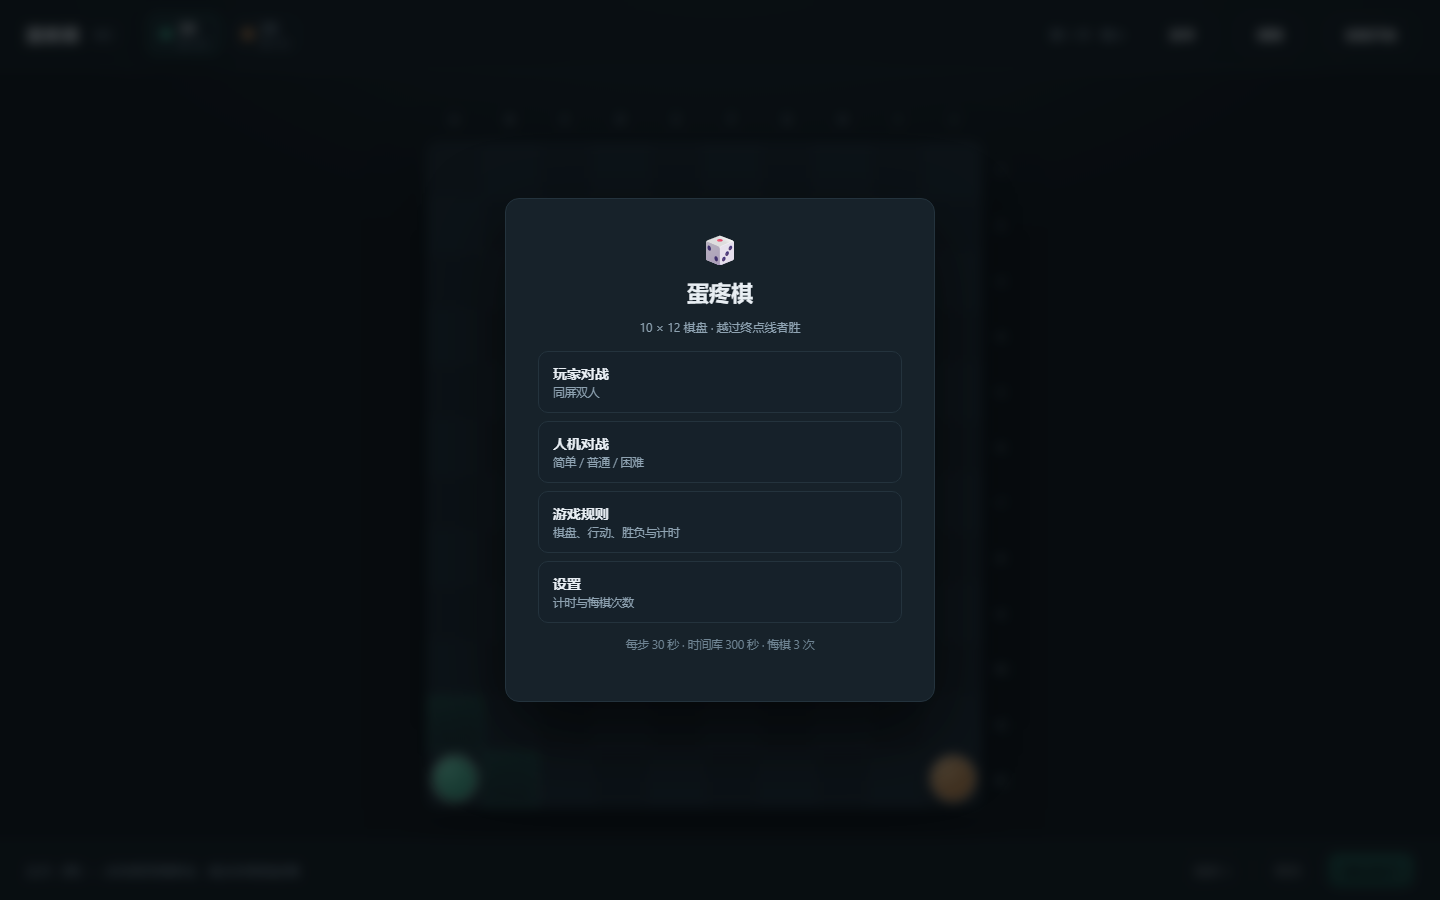
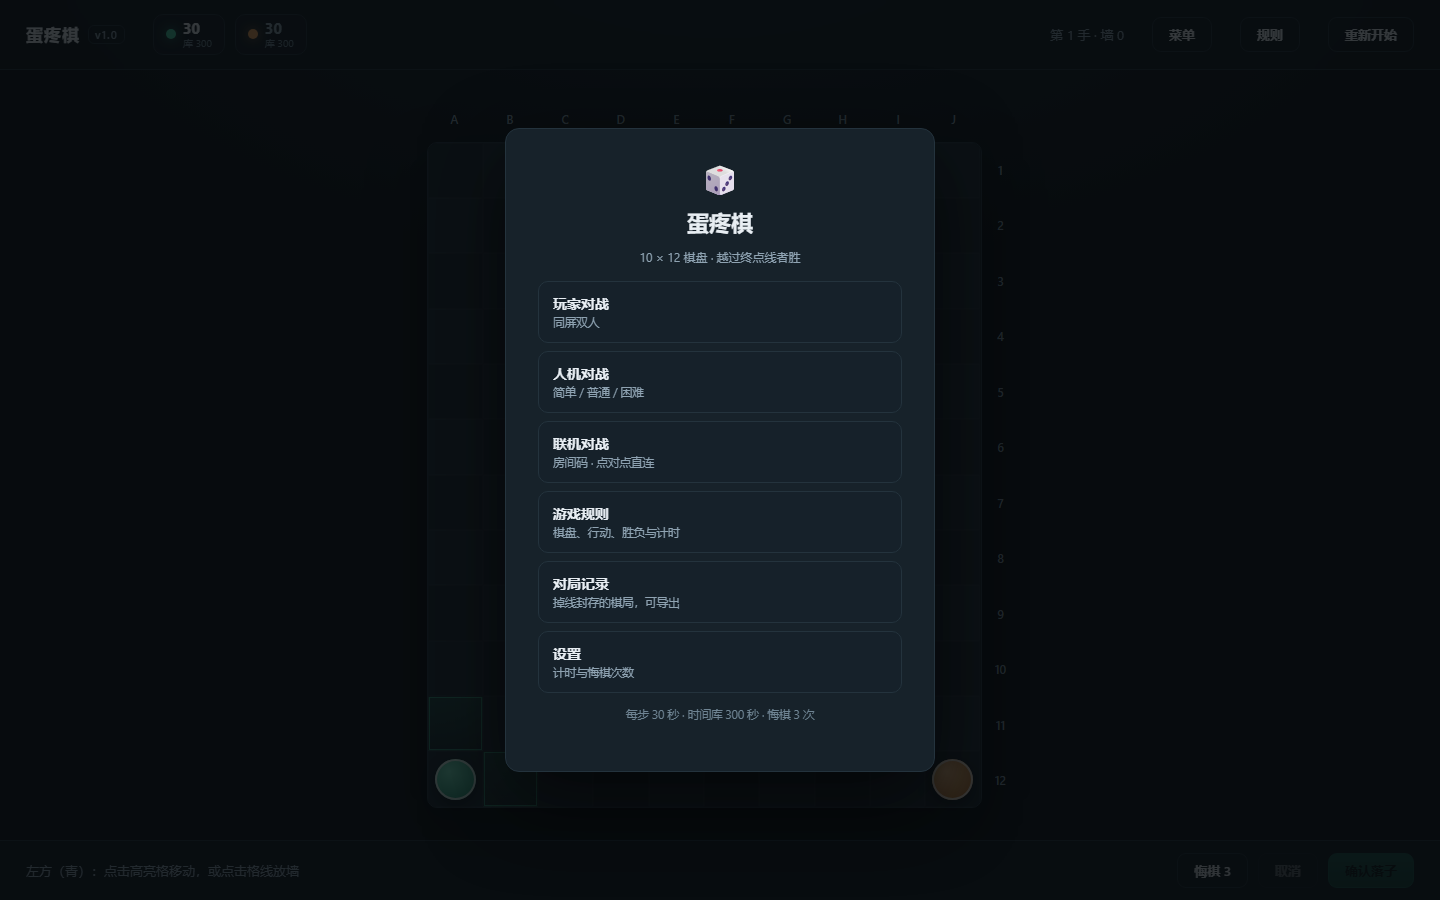
文档与仓库整理：README 重写、文档索引、截图更新
- README 重写：三种模式、联机用法、存档、目录、命令、测试数据、已知限制
- 新增 docs/文档说明.md：标注当前版/规划版/历史存档，避免看错版本
- 更新主菜单截图（含联机对战、对局记录）
- 界面版本号 M5 → v1.0

diff --git a/dist/蛋疼棋.html b/dist/蛋疼棋.html
@@ -852,7 +852,7 @@ body {
 <body>
   <div class="app">
     <header class="topbar">
-      <div class="brand">蛋疼棋<span class="ver">M5</span></div>
+      <div class="brand">蛋疼棋<span class="ver">v1.0</span></div>
       <div class="clocks">
         <div class="clock" id="clock0">
           <i class="dot dot-p0"></i>

diff --git a/index.html b/index.html
@@ -9,7 +9,7 @@
 <body>
   <div class="app">
     <header class="topbar">
-      <div class="brand">蛋疼棋<span class="ver">M5</span></div>
+      <div class="brand">蛋疼棋<span class="ver">v1.0</span></div>
       <div class="clocks">
         <div class="clock" id="clock0">
           <i class="dot dot-p0"></i>

diff --git a/README.md b/README.md
@@ -1,152 +1,117 @@
 # 蛋疼棋
 
-10 × 12 的两人棋：先越过终点线者胜。但若你到达时，对手下一手也能到达，就判平局——
-所以光跑没用，得靠封墙拉开差距。
-
-## 直接玩
-
-1. 打开 [`dist/蛋疼棋.html`](dist/蛋疼棋.html)，点右上角 **Download** 下载；
-2. 双击，用浏览器打开（无需安装、无需联网）；
-3. 主菜单选「玩家对战」或「人机对战」。
+10 × 12 的两人棋：先越过终点线者胜。但**如果你到达时，对手下一手也能到达，就判平局**——
+所以光跑没用，必须用墙把对手拖慢两步以上。这也是它“蛋疼”的地方。
 
 ![主菜单](docs/screenshots/home.png)
 
-## 怎么玩
+## 直接玩
+
+1. 下载 [`dist/蛋疼棋.html`](dist/蛋疼棋.html)（页面右上角 **Download**）；
+2. 双击，用任意现代浏览器打开——**无需安装、无需联网**；
+3. 单人可打人机，两个人可以同屏，联网可以开房间。
+
+> 单文件版是构建产物，源码改动后用 `node tools/build-single.mjs` 重新生成。
+
+## 玩法速览
 
 - 每回合二选一：**上下左右走一格**，或在格线上**封一面墙**；
 - 墙对双方都阻挡，但不能把任何一方完全封死；
 - 两枚棋子可以站在同一格；
-- 走到第 1 行、并从上方没有墙的列越出，即为到达；
-- 到达时对手也一步可到 → **平局**（这是核心平衡设计，不是 bug）；
-- 每步 30 秒，另有 300 秒时间库；超时由系统自动代走；
-- 每方 3 次悔棋，需对方同意。
+- 走到第 1 行、并从上方无墙的列越出，即为到达；
+- **到达时若对手也一步可到 → 平局**（核心平衡设计，不是 bug）；
+- 每步 30 秒，另有 300 秒时间库，超时由系统自动代走；
+- 每方 3 次悔棋（需对方同意），任何模式都可以认输。
 
-![掷骰选边](docs/screenshots/dice.png)
+## 三种模式
 
-## 开发
+| 模式 | 说明 |
+|---|---|
+| 玩家对战 | 同屏双人，轮流操作 |
+| 人机对战 | 简单 / 普通 / 困难三档 |
+| 联机对战 | 房间码直连，无需服务器；连不上可用「连接码」兜底 |
 
-纯逻辑实现，不依赖任何第三方包，Node ≥ 20 即可运行。界面是原生 ES Module，无构建步骤。
+### 联机怎么用
 
-## 目录
+1. 主菜单 →「联机对战」→「创建房间」，把 6 位房间码发给对方（或点「复制链接」）；
+2. 对方主菜单 →「联机对战」→「加入房间」，输入房间码；
+3. 双方掷骰，**点数大者在「先手」和「选边」中二选一**，另一项归对方。
+
+连不上（PeerJS 被墙、公司网络等）时改用「**用连接码**」：
+房主生成邀请码 → 发给对方 → 对方生成应答码 → 发回房主 → 连接建立。
+连接码约 800 字符，压缩后一条微信消息就能发。
+
+联机中还支持：悔棋（请求-同意，30 秒超时）、认输、再来一局、断线自动重连（90 秒窗口）、
+掉线后「结束（判负）」或「**封存对局**」。
+
+### 存档
+
+联机的棋局掉线时可以选择封存，最多 **3 个**存档位，保存时命名（默认精确到秒）。
+主菜单「对局记录」里可以查看、**导出 JSON**、删除。
+
+## 目录结构
 
 ```
 index.html / styles.css / app.js   界面（原生 ES Module，无构建步骤）
 src/
-  config.js     对局参数（每步 30 秒、时间库 300 秒、悔棋 3 次）
-  board.js      棋盘常量、228 个墙位的坐标编码与命名
-  path.js       BFS 最短路（到终点线的步数、路径上的可封墙位）
-  rules.js      状态、合法行动、封墙校验、到达/平局判定、超时代走选步
-  clock.js      每步计时 + 时间库的推进逻辑
-  ai.js         简单 / 普通 / 困难三档 AI
-  selfplay.js   自动对局与批量统计
-test/
-  engine.test.js  16 项规则单测
-  clock.test.js   10 项计时与自动选步单测
-tools/
-  serve.js        本地预览服务器
-  ui-check.mjs    界面自检（CDP 真实鼠标事件）
-  build-single.mjs 打包成单文件 HTML
-  balance.js      自对弈平衡测试 CLI
-dist/
-  蛋疼棋.html     打包产物，双击即玩
-docs/
-  蛋疼棋_规则说明书_v1.2.docx   规则唯一事实来源
-  蛋疼棋_需求总表_v1.1.docx
-  蛋疼棋_平衡测试报告_v1.0.docx
-  archive/        早期版本
-  素材/           原始需求文档、玩法 PDF、2022 年 Demo
+  config.js     对局参数（30 秒 / 300 秒 / 悔棋 3 次）
+  board.js      棋盘常量、228 个墙位的坐标编码
+  path.js       BFS 最短路与路径上的可封墙位
+  rules.js      状态、合法行动、封墙校验、到达/平局、超时代走
+  clock.js      计时与时间库
+  ai.js         三档 AI（贪心 / 平局感知 / 迭代加深搜索）
+  selfplay.js   自动对局与统计
+  storage.js    本地存档位
+  net/          联机：协议、传输、会话、PeerJS、手动连接码
+test/           单测（引擎、计时、协议、会话、存储）
+tools/          预览服务、界面自检、打包、平衡测试
+dist/           打包产物
+docs/           规则、需求、平衡报告与截图
 ```
 
-## 打包（发给朋友体验）
+## 开发
 
 ```bash
-node tools/build-single.mjs      # → dist/蛋疼棋.html
+node --test                                   # 单测
+node tools/serve.js 5173                      # 本地预览 http://127.0.0.1:5173
+node tools/ui-check.mjs                       # 界面自检（真实鼠标事件）
+node tools/net-ui-check.mjs                   # 联机端到端（两个浏览器互连）
+node tools/net-check.mjs                      # WebRTC 连接码连通性
+node tools/build-single.mjs                   # 打包成单文件
+node tools/balance.js --games 12 --ai "hard,normal"   # 自对弈
 ```
 
-把 CSS 与全部脚本内联成一个单文件（约 70 KB，零外部依赖），**双击用浏览器打开即可，不需要服务器**。
-打包产物同样跑过完整的 57 项界面自检：
+## 测试与数据
 
-```bash
-node tools/ui-check.mjs --file "dist/蛋疼棋.html"
-```
+| 项 | 结果 |
+|---|---|
+| 引擎/计时/协议/会话/存储单测 | 51 项全通过 |
+| 界面自检（含打包产物） | 60 项全通过 |
+| 联机双浏览器端到端 | 12 项全通过 |
+| 先手胜率（自对弈 500 局） | 48.7% |
+| 平局率 | 23.2% |
 
-## 命令
-
-```bash
-node --test                                   # 跑单测
-node tools/balance.js                         # 默认：容差 0/1/2，各 400 局
-node tools/balance.js --games 500 --ai greedy --tolerance 1
-node tools/balance.js --games 500 --ai greedy --tolerance 1 --wallLimit 20
-node tools/balance.js --games 300 --ai "greedy,greedy-move" --tolerance 1
-
-node tools/serve.js 5173                      # 启动界面 http://127.0.0.1:5173
-node tools/ui-check.mjs                       # 界面交互自检（需要先起 serve）
-```
-
-## 界面（M2）
-
-`index.html` + `styles.css` + `app.js`，原生 ES Module，直接 `import` 内核，无构建步骤。
-
-- 10×12 棋盘、A–J / 1–12 坐标、228 个墙位；
-- 点击格子 → 预览 → 确认落子（也可再点一次同一目标直接确认）；
-- 点击格线 → 预览封墙；封死通路时红墙 + 顶部提示，不弹窗；
-- 同格用斜向错开显示；站在第 1 行时列标签上方出现 ▲ 提示可越线；
-- 结算页区分胜/负/平局，平局会说明原因。
-
-### 计时与悔棋（M3）
-
-- 每步 30 秒，用尽后从本人 300 秒时间库扣除；库空后每步仍 30 秒（`src/config.js` 可改）；
-- 时间耗尽由系统代走（BFS 最短路，同长优先向上），顶部提示“超时，系统代走”；
-- 顶栏两个计时块：大数字为本步剩余（未轮到时显示 30），下方为时间库余额；
-- 悔棋默认每人 3 次，点击后弹出页面内确认框，由对方选择同意/拒绝；
-  撤销的是**最近一手**，棋子、墙、计时、时间库一并回滚；
-- 结算页或页面切到后台时暂停计时。
-
-调试参数：`?demo=1`（中盘）、`?demo=same`（同格）、`?demo=win`、`?demo=draw`、`?demo=undo`、
-`?demo=rules`、`?demo=settings`、`?demo=home`。
-
-`tools/ui-check.mjs` 通过 CDP 发送**真实鼠标事件**（`Input.dispatchMouseEvent`）并校验 43 条断言，其中包含 `elementFromPoint` 命中检测——用来防止“图层挡住点击”这类问题被 `element.click()` 掩盖。
-
-### 入口、规则与设置（M5）
-
-- 主菜单：玩家对战 / 人机对战（二级难度）/ 游戏规则 / 设置；
-- 开局掷骰：点数大者在「先手」和「选边」中二选一，另一项归点数小者；人机模式下电脑自己选；
-- 对局中顶栏「规则」可随时查看，打开时自动暂停计时；「菜单」返回主菜单；
-- 设置页可改每步时间、时间库、悔棋次数，写入 `localStorage`，下一局生效；
-- 结算页提供「再来一局 / 返回主菜单」。
-
-### 人机三档（M4）
+AI 强度（自对弈）：
 
 | 档位 | 策略 | 实测 |
 |---|---|---|
-| 简单 | 25% 随机 + 75% 贪心 | 对普通胜率约 8% |
-| 普通 | 贪心 + 平局规则感知（知道自己会不会走成和棋） | — |
-| 困难 | 四层搜索（alpha-beta）+ 平局感知评估 | 对普通胜率约 83% |
+| 简单 | 25% 随机 + 贪心 | 对普通约 0% |
+| 普通 | 贪心 + 平局规则感知 | — |
+| 困难 | 迭代加深（2–7 层，450ms）+ 出口封堵 | 对普通 100% |
 
-自对弈命令：`node tools/balance.js --games 150 --ai "hard,normal" --tolerance 1`。
+## 文档
 
-参数：
-
-| 参数 | 说明 |
+| 文件 | 状态 |
 |---|---|
-| `--games` | 每种配置的对局数 |
-| `--ai` | `random` / `greedy` / `greedy-move`；逗号分隔可指定双方不同 AI |
-| `--tolerance` | 平局容差：0 = 先到即胜，1 = 对手一步可到则平局（规则书默认） |
-| `--wallLimit` | 每人墙上限；`20` 表示双方各 20，`20,22` 表示先手 20、后手 22 |
-| `--seed` | 随机种子，保证结果可复现 |
+| [规则说明书 v1.2](docs/蛋疼棋_规则说明书_v1.2.docx) | **当前版本**，规则唯一事实来源 |
+| [需求总表 v1.1](docs/蛋疼棋_需求总表_v1.1.docx) | 规划版（联机功能早于本表） |
+| [平衡测试报告 v1.0](docs/蛋疼棋_平衡测试报告_v1.0.docx) | 历史数据，规则未变仍可参考 |
+| `docs/archive/` | 早期版本，仅存档 |
+| `docs/素材/` | 原始需求文档、玩法 PDF、2022 年 Demo |
 
-## 规则要点
+## 已知限制
 
-以 docs/蛋疼棋_规则说明书_v1.2.docx 为准。内核中的关键约定：
-
-- 坐标：列 A–J（0–9），行 1–12（0–11），`r=0` 是靠近终点线的一行。
-- 到达：位于 `r=0` 且该列上端无墙，再向上越出棋盘。
-- 平局：一方到达时，若对手到终点的最短路 ≤ `tolerance`，判平局（默认 1 手）。
-- 封墙：任何墙位落下后，双方都必须仍存在到终点的路径，否则拒绝。
-- 墙位 228 个 = 竖墙 108 + 横墙 110 + 上端 10。
-
-## 后续
-
-- M2：棋盘渲染与交互（本地同屏）
-- M3：计时、悔棋、结算
-- M4：人机三档（在 `ai.js` 上扩展）
+- **PeerJS 通路未在真实网络验证**（连接码通路已验证）；连不上时用连接码；
+- **自动重连只对 PeerJS 房间有效**，连接码是一次性通道；
+- 封存的存档目前**只能回放/导出，不能续下**（续局是后续迭代）；
+- 手机可用但未针对触屏优化（封墙依赖悬停预览）。

diff --git a/docs/文档说明.md b/docs/文档说明.md
@@ -1,0 +1,33 @@
+# 文档说明
+
+`docs/` 下文件较多，这里说明哪个是当前版本、哪些只是历史存档。
+
+## 当前版本
+
+| 文件 | 说明 |
+|---|---|
+| `蛋疼棋_规则说明书_v1.2.docx` | **规则唯一事实来源**。棋盘、行动、平局判定、计时、悔棋都以它为准。改规则必须先改这份并升版本。 |
+
+## 规划与数据
+
+| 文件 | 状态 | 说明 |
+|---|---|---|
+| `蛋疼棋_需求总表_v1.1.docx` | 规划版 | 一、二期需求合并表。联机、存档、认输等是在此表之后实现的，**不代表当前进度**。当前进度以仓库 README 为准。 |
+| `蛋疼棋_平衡测试报告_v1.0.docx` | 历史数据 | 基于 500 局自对弈测得先手胜率 48.7%、平局率 23.2%。规则与参数（228 墙位、容差 1）未变，结论仍成立；AI 强度已提升，绝对数值会有变化。 |
+
+## 历史存档
+
+`archive/` 里是规则说明书与需求总表的早期版本（v0.1 / v0.2 / v1.0 / v1.1），
+仅供追溯决策过程，**不要作为实现依据**。
+
+## 原始素材
+
+`素材/` 是项目最开始的输入：
+
+- `蛋疼棋游戏玩法.pdf`：最初的纸质规则；
+- `蛋疼棋游戏功能需求（1期/2期）.docx`：甲方需求原文；
+- `game.html`：2022 年的网页原型，仅作交互参考。
+
+## 截图
+
+`screenshots/` 供 README 使用，随界面更新重新截取。
